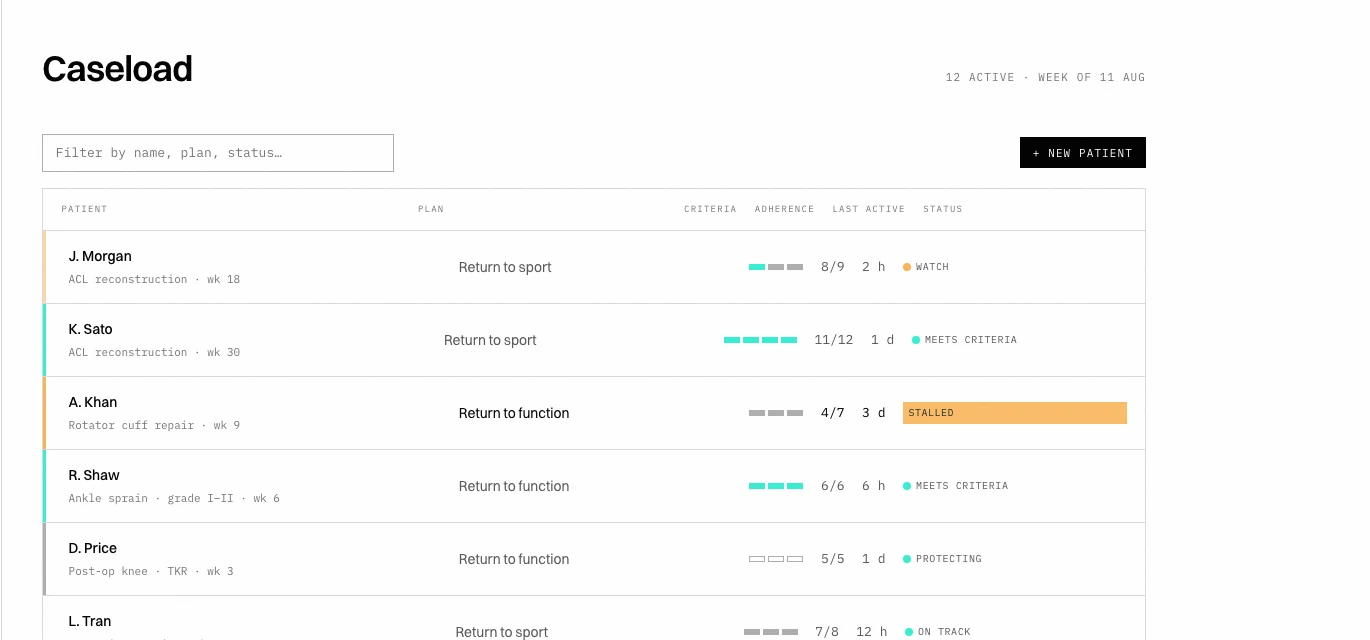
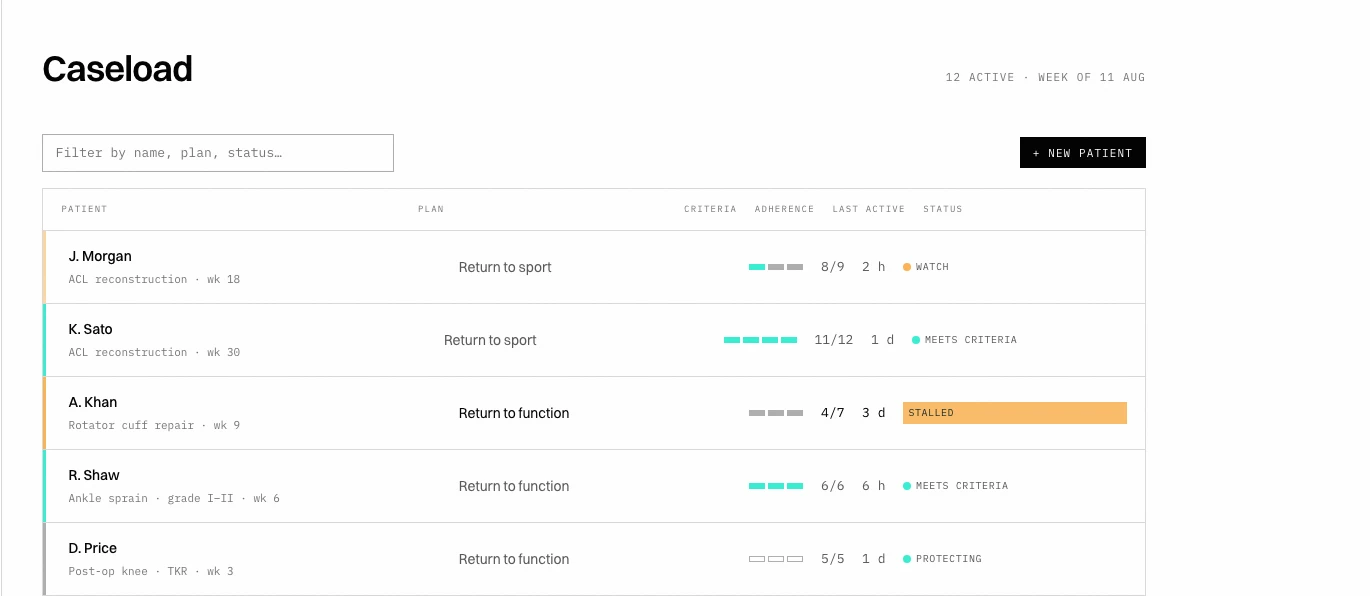
Case-study sweep: broken next-cycle, oversized pair captions, five image fixes
Full pass over every section and image of all four case studies.
Found and fixed:

- Frame's next-case link pointed back to Granite, so the reading cycle
  skipped IKARAO -- the one client engagement was unreachable from the
  chain. Now kaido -> granite -> frame -> ikarao -> kaido.
- Pair-figure captions were still running at display size on all four
  pages -- the quiet-caption law had only been applied to lead figures.
  Eight lines of display type under a two-phone figure made the words
  the figure again. Now reading size everywhere.
- Granite and Frame had no Accent row in their meta while Kaido and
  IKARAO did; both now carry their swatch (teal shared with Kaido by
  lineage; Frame's violet sampled from the shipping app).
- Kaido's hero was the same full k-today screenshot as its own Fig. 06,
  dead white space included -- hero now uses the tight crop, so the
  opening image and the closing figure read as different evidence.
- k-caseload's bottom row was sliced mid-patient; recropped to end on a
  row boundary, measured from the separators.
- IKARAO's Fig. 01 was a shrunken full-page shot that near-duplicated
  the hero with none of its legibility; recropped to the shipped wall's
  claim -- heading, filters, "150 of 150 showing", first row of marks --
  so hero shows the field and Fig. 01 shows the product.

Checked and left alone: figure numbering (all sequential), alt text,
Measured numbers, ledgers, colophons, scope notes, both concept-film
[…]

diff --git a/work-kaido.html b/work-kaido.html
@@ -409,6 +409,9 @@ body.cursor-on,body.cursor-on a,body.cursor-on button,body.cursor-on summary{cur
 .glyphsheet{margin-top:clamp(40px,6vw,72px);border:1px solid var(--line);}
 .glyphsheet img{display:block;width:100%;height:auto;}
 .glyphsheet .pcap{margin:0;padding:16px 20px 20px;background:var(--s1);border-top:1px solid var(--line);max-width:none;text-align:left;}
+/* pair captions obey the same quiet-caption law as the leads */
+.pfig.pair .pcap .pd{font-size:var(--t-lead);line-height:1.5;color:var(--paper70);}
+.pfig.pair .pcap{max-width:62ch;}
 </style>
 <script defer src="https://cdn.vercel-insights.com/v1/script.js"></script>
 <script>
@@ -435,7 +438,7 @@ body.cursor-on,body.cursor-on a,body.cursor-on button,body.cursor-on summary{cur
       <div class="csmeta"><div><b>Services</b><span>SaaS &middot; B2B</span></div><div><b>Site</b><span><a href="https://www.kaidohealth.co/" target="_blank" rel="noopener">kaidohealth.co &nearr;</a></span></div><div><b>Role</b><span>Design + build</span></div><div><b>Status</b><span>Piloting</span></div><div><b>Year</b><span>2026</span></div><div><b>Engine</b><span><a href="work-granite.html">Granite</a></span></div><div><b>Accent</b><span><i class="acc" aria-hidden="true"></i>#38EDD1</span></div></div>
     </div>
     <figure class="cshmedia">
-      <div class="spec"><i></i><i></i><i></i><i></i><div class="device device-lg dv-wide" style="view-transition-name:m-kaido;aspect-ratio:1600/1000"><img src="media/shots/k-today.webp" alt="Kaido — the clinician's view on a Tuesday morning: three patients who need attention first, each with a reason and a trend" loading="eager" width="1600" height="1000"></div></div>
+      <div class="spec"><i></i><i></i><i></i><i></i><div class="device device-lg dv-wide" style="view-transition-name:m-kaido;aspect-ratio:1600/763"><img src="media/shots/k-tile.webp" alt="Kaido — the clinician's view on a Tuesday morning: three patients who need attention first, each with a reason and a trend" loading="eager" width="1600" height="763"></div></div>
       <figcaption class="cshcap"><span class="dot"></span>Tuesday morning &mdash; the caseload, between visits</figcaption>
     </figure>
   </div>
@@ -445,7 +448,7 @@ body.cursor-on,body.cursor-on a,body.cursor-on button,body.cursor-on summary{cur
     <div>
       <div class="block reveal"><p class="csintro">Kaido plans the road back from an injury on objective thresholds &mdash; pain-free range, strength ratio, hop symmetry &mdash; not the calendar. It proposes each week&rsquo;s progression, watches what the patient actually logs between visits, and holds the load when a criterion isn&rsquo;t met. The clinician approves every change, and nothing is cleared without them. It began as <a href="work-granite.html">Granite</a>&rsquo;s coaching engine; physiotherapists saw the weekly rewrite and wanted it for their caseloads, so it became its own product &mdash; built with practising physiotherapists, piloting in clinics at &pound;200 a month.</p></div>
       <div class="stakes reveal"><div class="slabel">The problem</div><div class="sl">Recovery happens between visits, where nobody can see it.</div><div class="rungs"><div class="rung"><b>The visit is a snapshot</b><span class="fig">20 min</span><span>A clinician sees twenty minutes a week. The rest of the recovery happens at home, unrecorded.</span></div><div class="rung"><b>So plans run on dates</b><span class="fig">Week 6</span><span>Without evidence, progression falls back to the calendar &mdash; cleared because it&rsquo;s been six weeks, not because the knee is ready.</span></div><div class="rung"><b>And nobody can defend it</b><span class="fig">No record</span><span>When a return goes wrong, &ldquo;it felt about right&rdquo; is no answer &mdash; for the patient or the clinician.</span></div></div><p class="mech">One mechanism underneath all three: decisions follow evidence, or they quietly follow the calendar.</p></div>
-      <div class="block reveal"><div class="pfig lead"><div class="spec"><i></i><i></i><i></i><i></i><div class="device dv-wide" style="aspect-ratio:1600/1000"><img src="media/shots/k-queue.webp" alt="Kaido — the review queue: each proposed change with the old value struck through, the new one beside it, and the reason attached" loading="lazy" width="1600" height="1000"></div></div><div class="pcap"><span class="pn">Fig. 01 &middot; Kaido &middot; the review queue</span><span class="pd">Every proposed change waits here &mdash; the old value struck through, the new one beside it, the reason attached &mdash; until the clinician approves it. Nothing reaches a patient unreviewed, so the plan stays one the clinician can stand behind.</span></div></div><div class="pfig lead"><div class="spec"><i></i><i></i><i></i><i></i><div class="device dv-wide" style="aspect-ratio:1370/640"><img src="media/shots/k-caseload.webp" alt="Kaido &mdash; the caseload: every active patient with criteria progress, adherence and status" loading="lazy" width="1370" height="640"></div></div><div class="pcap"><span class="pn">Fig. 02 &middot; Kaido &middot; the whole caseload</span><span class="pd">Twelve recoveries at once, each with the criteria met so far, adherence, and whether it is progressing, stalled or being protected &mdash; the quiet ones surface without being asked for.</span></div></div></div>
+      <div class="block reveal"><div class="pfig lead"><div class="spec"><i></i><i></i><i></i><i></i><div class="device dv-wide" style="aspect-ratio:1600/1000"><img src="media/shots/k-queue.webp" alt="Kaido — the review queue: each proposed change with the old value struck through, the new one beside it, and the reason attached" loading="lazy" width="1600" height="1000"></div></div><div class="pcap"><span class="pn">Fig. 01 &middot; Kaido &middot; the review queue</span><span class="pd">Every proposed change waits here &mdash; the old value struck through, the new one beside it, the reason attached &mdash; until the clinician approves it. Nothing reaches a patient unreviewed, so the plan stays one the clinician can stand behind.</span></div></div><div class="pfig lead"><div class="spec"><i></i><i></i><i></i><i></i><div class="device dv-wide" style="aspect-ratio:1370/596"><img src="media/shots/k-caseload.webp" alt="Kaido &mdash; the caseload: every active patient with criteria progress, adherence and status" loading="lazy" width="1370" height="596"></div></div><div class="pcap"><span class="pn">Fig. 02 &middot; Kaido &middot; the whole caseload</span><span class="pd">Twelve recoveries at once, each with the criteria met so far, adherence, and whether it is progressing, stalled or being protected &mdash; the quiet ones surface without being asked for.</span></div></div></div>
       <div class="aud reveal"><div class="who"><h3><span class="b">1</span>For the clinician</h3><p>You cannot see the six days between appointments, and you cannot stand behind a black box. <em>Kaido shows you what happened and proposes what&rsquo;s next &mdash; every call stays yours.</em></p></div><div class="who"><h3><span class="b">2</span>For the patient</h3><p>Recovery is slow, mostly invisible, and stalling quietly is how it fails. <em>Criteria met on the body &mdash; progress you can see, and a plan that responds when something hurts.</em></p></div></div>
       <div class="block reveal"><h2>Proposes and monitors, never clears</h2><p>Kaido writes the plan and watches it happen. What the patient logs &mdash; a flare, a pain flag, a swapped exercise &mdash; reaches the clinician as it happens, grouped by what it means, with the plan already holding load where a criterion says it should.</p><p>What it never does is clear anyone. Discharge is thresholds met on the body, recorded with dates &mdash; and the conversation that follows is the clinician&rsquo;s.</p><div class="pfig pair"><div class="duo"><figure><div class="device"><img src="media/shots/k-flare.webp" alt="Kaido — what the patient logged since the last review: a flare with swelling flags, a pain report, a swapped exercise, repeated skips" loading="lazy" width="390" height="844"></div><figcaption>Logged between visits</figcaption></figure><figure><div class="device"><img src="media/shots/k-discharge.webp" alt="Kaido — a discharged plan: both criteria met and recorded, with the exercises and documents beneath" loading="lazy" width="390" height="844"></div><figcaption>Discharged on criteria</figcaption></figure></div><div class="pcap"><span class="pn">Fig. 03 &middot; Kaido &middot; between the visits</span><span class="pd">A flare, a pain flag, a swap &mdash; captured when it happens, so Tuesday&rsquo;s appointment starts from what happened rather than what the patient remembers.</span></div></div></div>
       <div class="block reveal"><h2>The whole caseload, not one patient</h2><p>A caseload is a dozen recoveries running at once, and the dangerous ones are the quiet ones. Kaido opens the day on the patients who need attention first, each with the reason attached.</p><p>The judgement stays expensive; finding where it&rsquo;s needed becomes free.</p><div class="pfig lead"><div class="spec"><i></i><i></i><i></i><i></i><div class="device dv-wide" style="aspect-ratio:1370/1000"><img src="media/shots/k-plans.webp" alt="Kaido &mdash; the plan library: 39 conditions, each with criteria count, arc length and verified studies" loading="lazy" width="1370" height="1000"></div></div><div class="pcap"><span class="pn">Fig. 04 &middot; Kaido &middot; the criteria library</span><span class="pd">Thirty-nine conditions, each with its criteria count, its arc, and the studies behind it &mdash; and a running note of how much of the library still needs a clinician&rsquo;s sign-off.</span></div></div><div class="pfig lead"><div class="spec"><i></i><i></i><i></i><i></i><div class="device dv-wide" style="aspect-ratio:1370/800"><img src="media/shots/k-outcomes.webp" alt="Kaido &mdash; outcomes: episodes, weeks and re-injury rate per plan, benchmarked against 34 clinics" loading="lazy" width="1370" height="800"></div></div><div class="pcap"><span class="pn">Fig. 05 &middot; Kaido &middot; what the thresholds did</span><span class="pd">Every episode records what each criterion read on the day a patient was cleared, set against the same band across thirty-four clinics &mdash; showing whether a threshold is holding people back or letting them through early. Kaido moves none of them for you.</span></div></div><div class="pfig lead"><div class="spec"><i></i><i></i><i></i><i></i><div class="device dv-wide" style="aspect-ratio:1600/1000"><img src="media/shots/k-today.webp" alt="Kaido — Tuesday morning: twelve active patients, three needing attention first, and a feed of what changed since yesterday" loading="lazy" width="1600" height="1000"></div></div><div class="pcap"><span class="pn">Fig. 06 &middot; Kaido &middot; Tuesday morning</span><span class="pd">Twelve active patients, three who need you first &mdash; a stalled shoulder, a hop retest due, a knee that has met every criterion. The clinician opens the day knowing where their judgement is needed, instead of hunting for it.</span></div></div></div>

diff --git a/work-ikarao.html b/work-ikarao.html
@@ -425,6 +425,9 @@ body.cursor-on,body.cursor-on a,body.cursor-on button,body.cursor-on summary{cur
 .glyphsheet{margin-top:clamp(40px,6vw,72px);border:1px solid var(--line);}
 .glyphsheet img{display:block;width:100%;height:auto;}
 .glyphsheet .pcap{margin:0;padding:16px 20px 20px;background:var(--s1);border-top:1px solid var(--line);max-width:none;text-align:left;}
+/* pair captions obey the same quiet-caption law as the leads */
+.pfig.pair .pcap .pd{font-size:var(--t-lead);line-height:1.5;color:var(--paper70);}
+.pfig.pair .pcap{max-width:62ch;}
 </style>
 <script defer src="https://cdn.vercel-insights.com/v1/script.js"></script>
 <script>
@@ -462,7 +465,7 @@ body.cursor-on,body.cursor-on a,body.cursor-on button,body.cursor-on summary{cur
       <div class="block reveal"><p class="csintro">Bittensor is a decentralized AI network with thousands of named parts &mdash; subnets, validators &mdash; and no shared way for any of them to look like they belong together. We didn&rsquo;t design them a logo. We researched a drawing discipline &mdash; the same order of rigor as cutting a type family or a colour system &mdash; and built an engine that enforces it on every name the network ever produces. Same name, same mark, forever. Different name, different mark &mdash; unmistakably from the same family.</p></div>
       <div class="stakes reveal"><div class="slabel">The problem</div><div class="sl">One logo can&rsquo;t cover a network that keeps naming new parts.</div><div class="rungs"><div class="rung"><b>Hiring doesn&rsquo;t scale</b><span class="fig">1000s</span><span>A designer for every new subnet is a queue, not a system &mdash; and the network never stops naming new ones.</span></div><div class="rung"><b>Improvising doesn&rsquo;t cohere</b><span class="fig">No two</span><span>Let each team draw its own mark and the family resemblance is the first thing that disappears.</span></div><div class="rung"><b>A guide isn&rsquo;t enforced</b><span class="fig">0 checks</span><span>Nobody audits a hundred teams against a style PDF. Rules that aren&rsquo;t machine-checked quietly stop being rules.</span></div></div><p class="mech">One mechanism underneath all three: the resemblance has to be a property of how a mark is made, not a rule someone has to remember to follow.</p></div>
       <div class="aud reveal"><div class="who"><h3><span class="b">1</span>For the network</h3><p>A thousand named parts need to look related without a designer touching each one. <em>The engine gives every name a mark the moment it exists &mdash; nobody has to ask for it.</em></p></div><div class="who"><h3><span class="b">2</span>For the team shipping it</h3><p>Announcements, subnet cards, a daily social feed &mdash; all of it needs to move faster than a designer can. <em>One template, filled in by the same engine, every time.</em></p></div></div>
-      <div class="block reveal"><div class="pfig lead"><div class="spec"><i></i><i></i><i></i><i></i><div class="device dv-wide" style="aspect-ratio:1600/780"><img src="media/shots/i-wall.webp" alt="IKARAO — a wall of generated marks, each one a different name drawn by the same rule, filterable by register, shape, density and symmetry" loading="lazy" width="1600" height="780"></div></div><div class="pcap"><span class="pn">Fig. 01 &middot; IKARAO &middot; 300 marks, one rule</span><span class="pd">Every mark is a different name, drawn by the same rule. Filtering hides pieces &mdash; it never re-picks them.</span></div></div></div>
+      <div class="block reveal"><div class="pfig lead"><div class="spec"><i></i><i></i><i></i><i></i><div class="device dv-wide" style="aspect-ratio:1600/1144"><img src="media/shots/i-wall.webp" alt="IKARAO — the shipped wall: 300 marks with filters for register, shape, density and symmetry, and the count that proves nothing is re-picked" loading="lazy" width="1600" height="1144"></div></div><div class="pcap"><span class="pn">Fig. 01 &middot; IKARAO &middot; 300 marks, one rule</span><span class="pd">Every mark is a different name, drawn by the same rule. Filtering hides pieces &mdash; it never re-picks them.</span></div></div></div>
       <div class="block reveal"><h2>One drawing rule</h2><p>Every mark is built the same way: a name becomes a number, the number steers a pen across a grid, and the pen draws continuous lines that never cross themselves. The name is the only input.</p><p>The drawing rule itself is learned from kené, the line-work tradition of the Shipibo-Konibo people of the Peruvian Amazon: continuous paths, bordered bands, patterns that radiate from a centre. We credit that lineage by name on the work itself, and claim none of the tradition&rsquo;s meaning as our own. What we added is the machine.</p><div class="pfig lead"><div class="spec"><i></i><i></i><i></i><i></i><div class="device dv-wide" style="aspect-ratio:1600/1000"><img src="media/shots/i-tool.webp" alt="IKARAO — the Tool: type any string as a seed, choose a style and density, and the engine draws the mark live" loading="lazy" width="1600" height="1000"></div></div><div class="pcap"><span class="pn">Fig. 02 &middot; IKARAO &middot; the Tool</span><span class="pd">The interface exposes the rule set directly &mdash; style, density, register &mdash; the parameters a type designer tunes across a family.</span></div></div><div class="pfig lead"><div class="spec"><i></i><i></i><i></i><i></i><div class="device dv-wide" style="aspect-ratio:1200/630"><img src="media/shots/i-styles.webp" alt="IKARAO &mdash; the same seed drawn in both styles, Circuit on void and Flat line on cream, each with its full parameter line beneath" loading="lazy" width="1200" height="630"></div></div><div class="pcap"><span class="pn">Fig. 03 &middot; IKARAO &middot; one seed, both styles</span><span class="pd">The same name in Circuit and Flat line, each captioned with the exact settings that drew it &mdash; Circuit for screens, Flat for print, decided by where the mark is going rather than by eye.</span></div></div></div><div class="block reveal"><h2>Repeatable, byte for byte</h2><p>The same name always produces the exact same mark. A subnet&rsquo;s mark isn&rsquo;t stored anywhere &mdash; it doesn&rsquo;t need to be. Anyone can regenerate it and get the identical result.</p><p>Which is why the whole system &mdash; posters, social templates, the site itself &mdash; is generated rather than laid out by hand, and never drifts from what the engine draws.</p><div class="pfig lead"><div class="spec"><i></i><i></i><i></i><i></i><div class="device dv-wide" style="aspect-ratio:1600/546"><img src="media/shots/i-print.webp" alt="IKARAO &mdash; a printed specimen sheet: five names on one plate, alternating cream and void grounds" loading="lazy" width="1600" height="546"></div></div><div class="pcap"><span class="pn">Fig. 04 &middot; IKARAO &middot; one plate, five names</span><span class="pd">A specimen sheet in the type-foundry sense &mdash; five names off one plate, alternating grounds, none of them commissioned.</span></div></div><div class="pfig pair"><div class="duo"><figure><div class="device dv-wide" style="aspect-ratio:1600/1000"><img src="media/shots/i-poster.webp" alt="IKARAO — a concept poster: one statement per sheet, the names registered that epoch" loading="lazy" width="1600" height="1000"></div><figcaption>One statement per sheet</figcaption></figure><figure><div class="device dv-wide" style="aspect-ratio:1600/780"><img src="media/shots/i-social.webp" alt="IKARAO — the social kit: one card template, filled in daily, the engine generating each post" loading="lazy" width="1600" height="780"></div><figcaption>One template, filled daily</figcaption></figure></div><div class="pcap"><span class="pn">Fig. 05 &middot; IKARAO &middot; posters and the daily feed</span><span class="pd">Eleven concept posters and a social kit, all generated from the same seed rather than laid out by hand.</span></div></div></div>
       <div class="block reveal"><h2>Rules pulled from the cloth, not a moodboard</h2><p>The drawing rule didn&rsquo;t start as an aesthetic. We read eighty-six reference textiles in the kené tradition against six formal questions &mdash; how weight is built, how a field is filled, where colour is allowed to land, how symmetry actually behaves, how a pattern meets its own edge &mdash; and turned what we found into rules the engine enforces on every mark it draws.</p><p>Most of it overturned our first instincts. A line doesn&rsquo;t get heavier by getting thicker &mdash; the cloths build weight in three or four fixed steps, each doubling the line rather than fattening it. Colour covers 1&ndash;5% of a mark and only lands at a junction, a line end or a knot. And a full gold ground tested against a gold band on the same poster flipped the verdict: the band read as considered, the ground as loud. Same colour &mdash; area was the only variable.</p><p>None of it is decoration layered on afterward. It&rsquo;s checked: the picks that made the cut came back 100% kené-true against these rules; the drafts we killed were only a third as consistent. That gap is what art direction meant on this job &mdash; not a look we chose, but a rule set strict enough to fail work that hadn&rsquo;t earned it.</p></div>
 

diff --git a/work-frame.html b/work-frame.html
@@ -355,6 +355,10 @@ body.cursor-on,body.cursor-on a,body.cursor-on button,body.cursor-on summary{cur
 .pdetail .pcap{margin:0;padding:18px 20px 22px;background:var(--s1);border-top:1px solid var(--line);max-width:none;text-align:left;}
 .pdetail .pcap .pd{font-size:var(--t-body);line-height:1.55;}
 @media(max-width:680px){.pdetail{width:80%;}}
+.csmeta .acc{display:inline-block;width:10px;height:10px;background:var(--case-accent);margin-right:8px;vertical-align:-1px;}
+/* pair captions obey the same quiet-caption law as the leads */
+.pfig.pair .pcap .pd{font-size:var(--t-lead);line-height:1.5;color:var(--paper70);}
+.pfig.pair .pcap{max-width:62ch;}
 </style>
 <script defer src="https://cdn.vercel-insights.com/v1/script.js"></script>
 <script>
@@ -378,7 +382,7 @@ body.cursor-on,body.cursor-on a,body.cursor-on button,body.cursor-on summary{cur
       <div class="eyebrow"><svg class="ehmark" id="ehmark" viewBox="0 0 12 12" aria-hidden="true" style="view-transition-name:mk-frame"><path d=""/></svg>Case study<span class="ix">02 / FRAME</span></div>
       <h1 class="csh1" style="view-transition-name:t-frame">Frame</h1>
       <p class="premise">A BJJ training journal built against the forgetting curve.</p>
-      <div class="csmeta"><div><b>Services</b><span>Native &middot; On-device</span></div><div><b>Site</b><span><a href="https://www.framebjj.app" target="_blank" rel="noopener">framebjj.app &nearr;</a></span></div><div><b>Role</b><span>Design + build</span></div><div><b>Status</b><span>Alpha</span></div><div><b>Year</b><span>2026</span></div></div>
+      <div class="csmeta"><div><b>Services</b><span>Native &middot; On-device</span></div><div><b>Site</b><span><a href="https://www.framebjj.app" target="_blank" rel="noopener">framebjj.app &nearr;</a></span></div><div><b>Role</b><span>Design + build</span></div><div><b>Status</b><span>Alpha</span></div><div><b>Year</b><span>2026</span></div><div><b>Accent</b><span><i class="acc" aria-hidden="true"></i>#7B3AEB</span></div></div>
     </div>
     <figure class="cshmedia">
       <div class="device device-lg" style="view-transition-name:m-frame"><img src="media/shots/f-today-light.webp" alt="Frame — today, personalized: injury-aware, with a game plan built from your own leaks" loading="eager" width="680" height="1474"></div>
@@ -417,7 +421,7 @@ body.cursor-on,body.cursor-on a,body.cursor-on button,body.cursor-on summary{cur
       <div class="colophon reveal"><div><b>Stack</b><span>Swift &middot; SwiftUI &middot; on-device transcription</span></div><div><b>Timeline</b><span>2026</span></div><div><b>Constraint</b><span>Offline-first. Exportable. Never sold.</span></div></div>
     </div>
   </div></section>
-  <section class="csnext"><div class="wrap"><a href="work-granite.html"><div class="l">Next case</div><div class="n">Granite<em>.</em></div></a></div></section>
+  <section class="csnext"><div class="wrap"><a href="work-ikarao.html"><div class="l">Next case</div><div class="n">IKARAO<em>.</em></div></a></div></section>
 </main>
 <footer><div class="wrap foot"><span>&copy; 2026 CYBERCYBER LTD &middot; London</span><span class="fseal" aria-hidden="true"><svg class="fmark" viewBox="0 0 100 100"><path d=""/></svg><span class="fref">------</span><span class="fchk" title="Linted before every publish: colour exists only as tokens &middot; no raw hex outside :root &middot; mobile nav present &middot; figures numbered in reading order &middot; journal cycle closed">CHK 05/05</span></span><a href="./">Home &uarr;</a></div></footer>
 <script>

diff --git a/work-granite.html b/work-granite.html
@@ -402,6 +402,10 @@ body.cursor-on,body.cursor-on a,body.cursor-on button,body.cursor-on summary{cur
 .glyphsheet{margin-top:clamp(40px,6vw,72px);border:1px solid var(--line);}
 .glyphsheet img{display:block;width:100%;height:auto;}
 .glyphsheet .pcap{margin:0;padding:16px 20px 20px;background:var(--s1);border-top:1px solid var(--line);max-width:none;text-align:left;}
+.csmeta .acc{display:inline-block;width:10px;height:10px;background:var(--case-accent);margin-right:8px;vertical-align:-1px;}
+/* pair captions obey the same quiet-caption law as the leads */
+.pfig.pair .pcap .pd{font-size:var(--t-lead);line-height:1.5;color:var(--paper70);}
+.pfig.pair .pcap{max-width:62ch;}
 </style>
 <script defer src="https://cdn.vercel-insights.com/v1/script.js"></script>
 <script>
@@ -425,7 +429,7 @@ body.cursor-on,body.cursor-on a,body.cursor-on button,body.cursor-on summary{cur
       <div class="eyebrow"><svg class="ehmark" id="ehmark" viewBox="0 0 12 12" aria-hidden="true" style="view-transition-name:mk-granite"><path d=""/></svg>Case study<span class="ix">01 / GRANITE</span></div>
       <h1 class="csh1" style="view-transition-name:t-granite">Granite</h1>
       <p class="premise">A strength coach for athletes whose sport isn&rsquo;t lifting.</p>
-      <div class="csmeta"><div><b>Services</b><span>Native &middot; On-device AI</span></div><div><b>Site</b><span><a href="https://granite.coach" target="_blank" rel="noopener">granite.coach &nearr;</a></span></div><div><b>Role</b><span>Design + build</span></div><div><b>Status</b><span>Alpha</span></div><div><b>Year</b><span>2026</span></div><div><b>Spun off</b><span><a href="https://www.kaidohealth.co/" target="_blank" rel="noopener">Kaido Health &nearr;</a></span></div></div>
+      <div class="csmeta"><div><b>Services</b><span>Native &middot; On-device AI</span></div><div><b>Site</b><span><a href="https://granite.coach" target="_blank" rel="noopener">granite.coach &nearr;</a></span></div><div><b>Role</b><span>Design + build</span></div><div><b>Status</b><span>Alpha</span></div><div><b>Year</b><span>2026</span></div><div><b>Accent</b><span><i class="acc" aria-hidden="true"></i>#38EDD1</span></div><div><b>Spun off</b><span><a href="https://www.kaidohealth.co/" target="_blank" rel="noopener">Kaido Health &nearr;</a></span></div></div>
     </div>
     <figure class="cshmedia">
       <div class="device device-lg" style="view-transition-name:m-granite"><img src="media/shots/g-week.webp" alt="Granite — the training week the engine builds" loading="eager" width="680" height="1478"></div>
